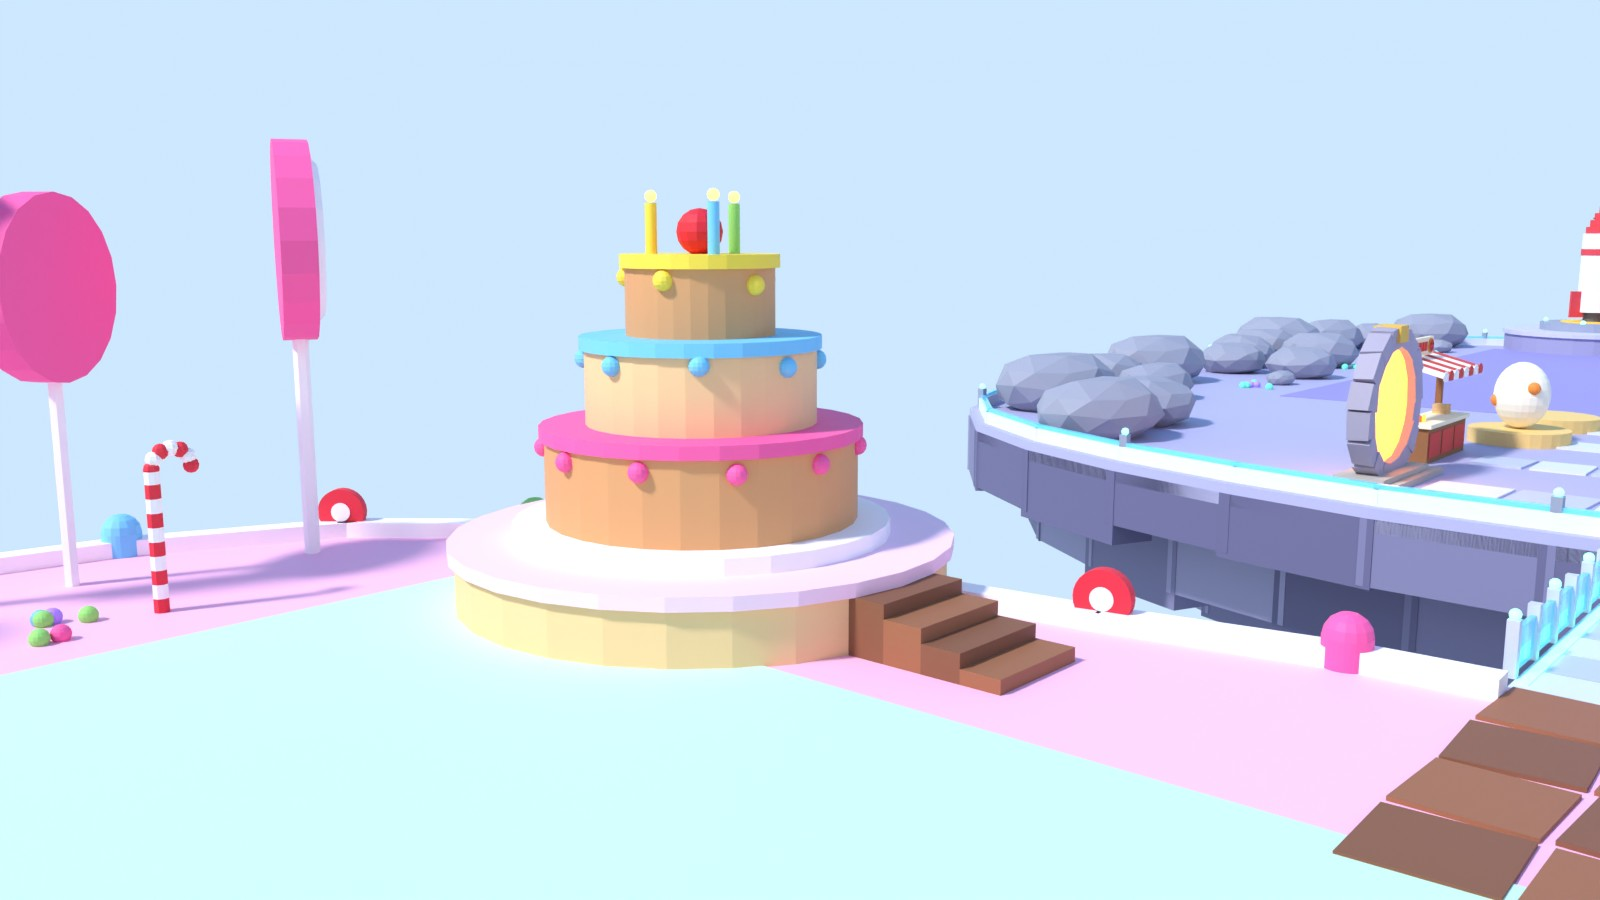
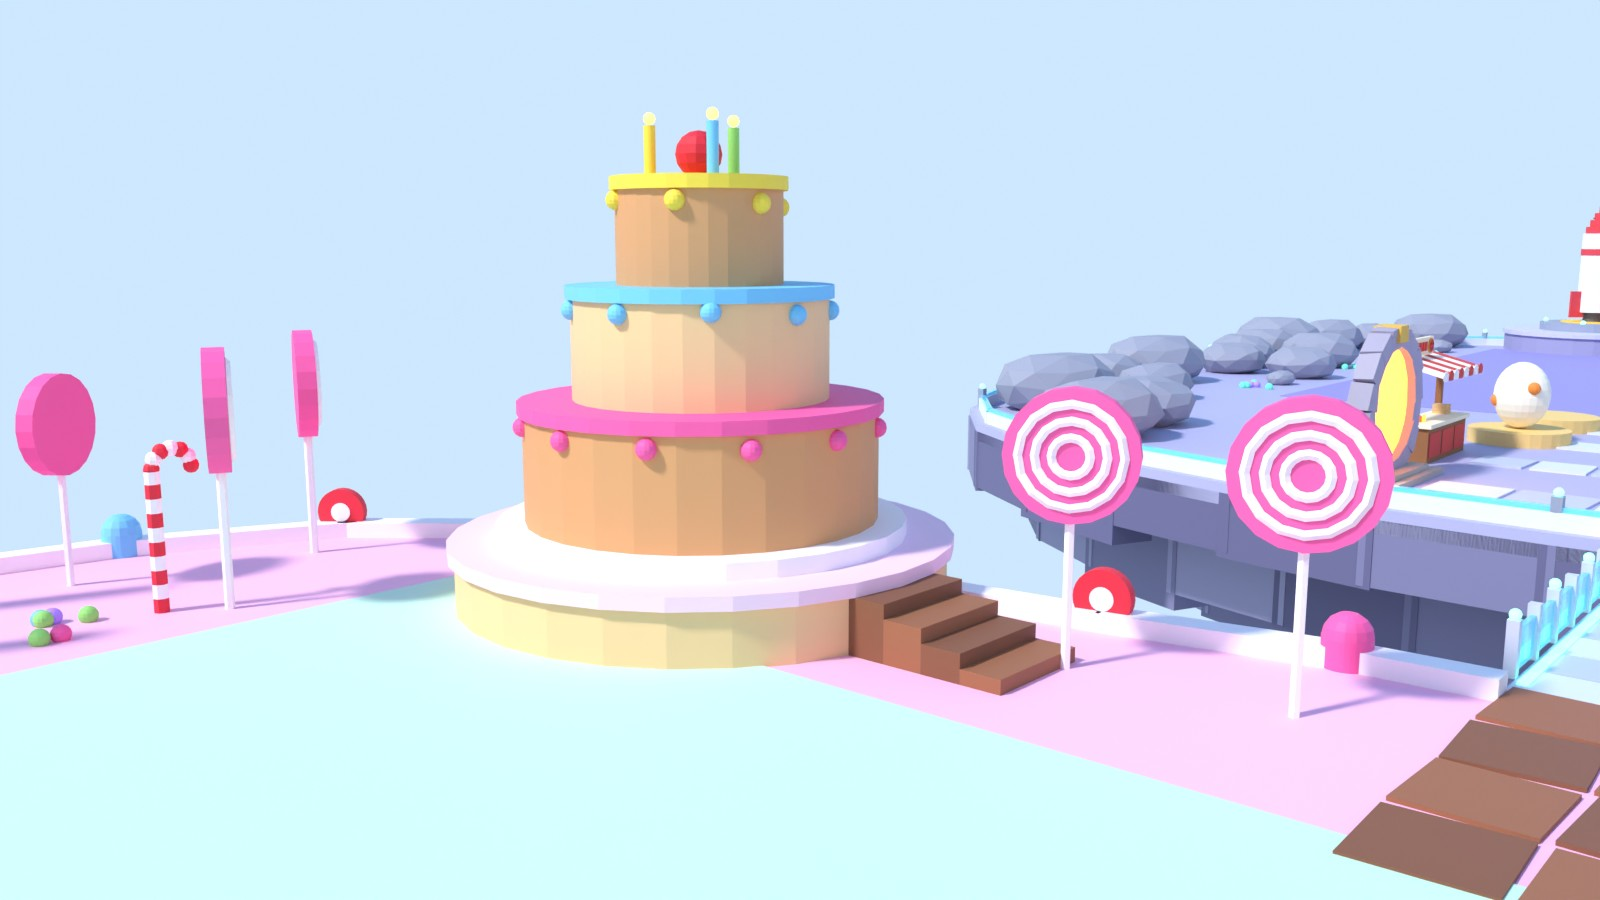
Re-render world 6 and the whole chain with the spawn island in view (#32)
Claude-Session: https://claude.ai/code/session_01ETPm5R6QuQuR9RNWXV79Tq

diff --git a/tools/blender/render_islands.py b/tools/blender/render_islands.py
@@ -358,7 +358,7 @@ VIEWS = {
     "Bridge_Candy": ((40, 14, -1050), (0, -2, -1080), 28, (1600, 900)),
     "Bridge_Light": ((40, 14, -1290), (0, -2, -1320), 28, (1600, 900)),
     # The whole chain, spawn island (z = +202) to world 7 (z = -1440).
-    "Islands_FullChain": ((900, 620, 300), (0, -20, -620), 32, (1920, 820)),
+    "Islands_FullChain": ((980, 640, 420), (0, -20, -600), 27, (1920, 820)),
 }
 
 
